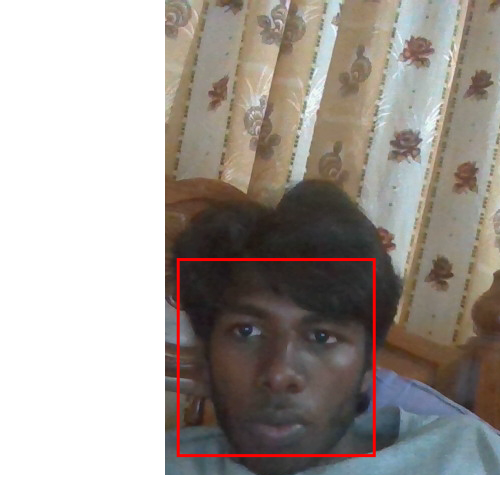
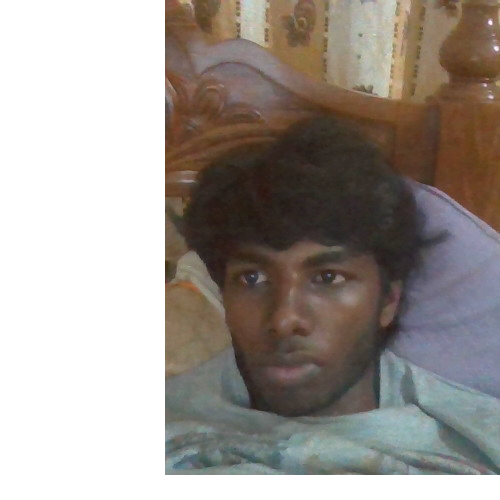
overlapping and face detection done

diff --git a/geolocation/templates/verification.html b/geolocation/templates/verification.html
@@ -183,33 +183,27 @@
         }
       // Below code to capture image from Video tag (Webcam streaming)  
       $("#btnCapture").click(async function () {  
-          faceDetected=false;
-          await sleep(100);
-          if (faceDetected==false){
-              alert('No face in video')
-          }  
-          else{
-
-          
           var canvas = document.getElementById('canvas');  
           var context = canvas.getContext('2d');  
     
           // Capture the image into canvas from Webcam streaming Video element  
           context.drawImage(video, 0, 0);  
-          document.getElementById("canvas").style.zIndex = 1;
-          document.getElementById("video").style.zIndex = 0;
-          if( pic){
-            document.getElementById("canvas").style.zIndex = 0;
-          document.getElementById("video").style.zIndex = 1;
+          if(pic){
+            $('#video').get(0).play();
             document.getElementById("btnCapture").innerHTML = "Click";
             pic=false;
           }
           else{
-            document.getElementById("canvas").style.zIndex = 1;
-          document.getElementById("video").style.zIndex = 0;
-            document.getElementById("btnCapture").innerHTML = "Reclick";
-            pic = true;
-          }}
+            faceDetected=false;
+            await sleep(100);
+            if (faceDetected==false){
+              alert('No face in video')
+            }  
+            else{$('#video').get(0).pause();
+                document.getElementById("btnCapture").innerHTML = "Reclick";
+                pic = true;
+            }
+          }
       }); 
   
       // Upload image to server - ajax call - with the help of base64 data as a parameter  
